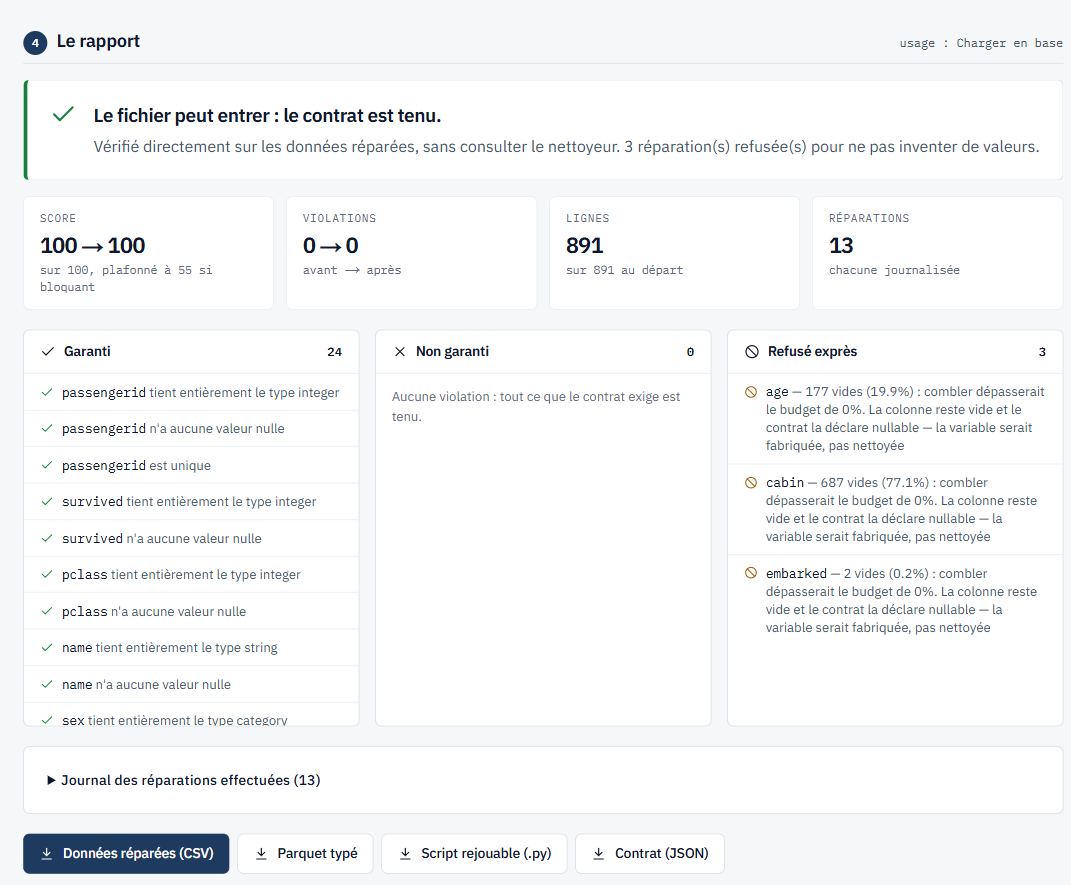
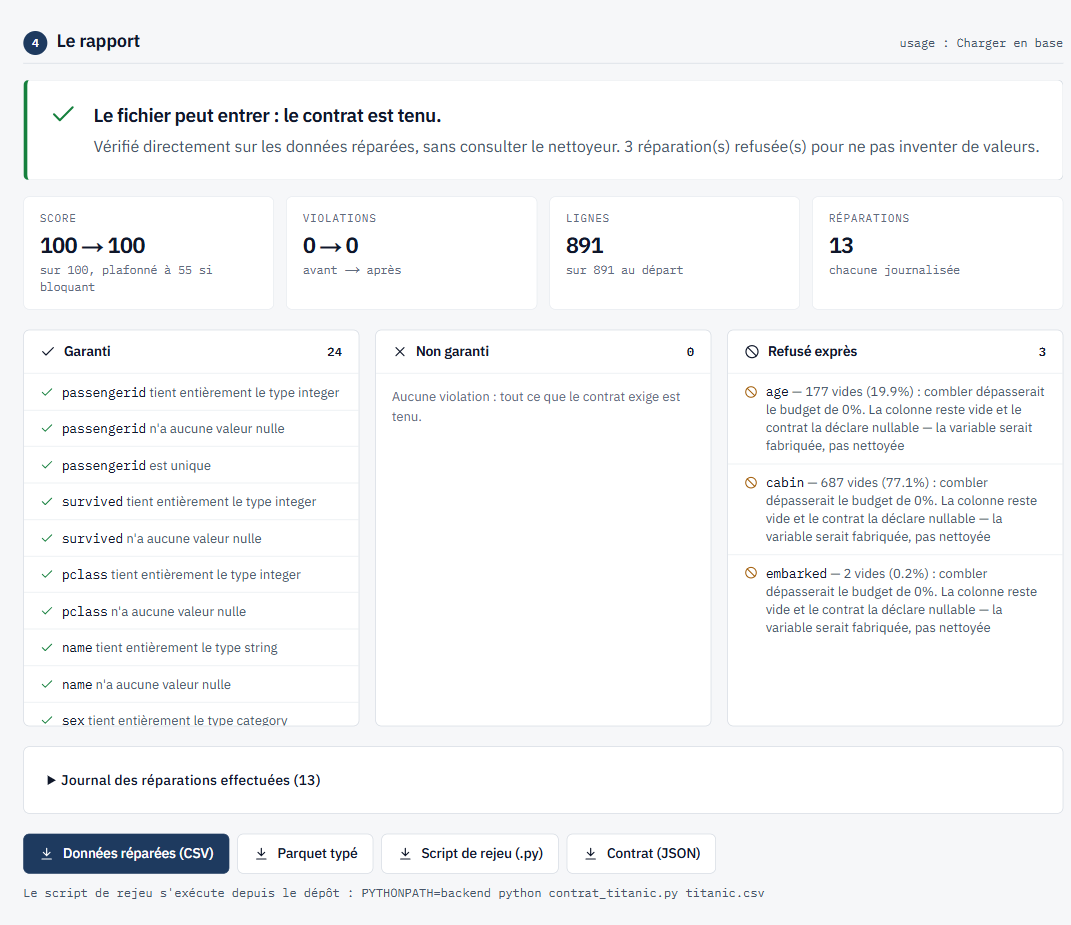
Le verificateur accusait la reparation de pertes qu'elle n'avait pas faites
Trouve en testant la nouvelle interface sur un fichier de ventes. Deux
lignes qui ne different que par la casse ou par un marqueur de vide
deviennent des doublons francs une fois reparees, et la reparation les
retire a bon droit ; le verificateur comptait les doublons sur le fichier
brut, y lisait des lignes perdues, puis des imputations (82 -> 61, contrat
non tenu, rien d'invente). Il compare desormais a une base construite
selon sa propre equivalence de lignes, toujours sans consulter le
nettoyeur. Contre-epreuves : une vraie perte et une vraie imputation
restent detectees.

Second defaut, d'honnetete : un usage qui exige une cle (base, jointure)
etait declare tenu sur un fichier sans aucune cle. Le contrat porte
maintenant cette exigence (cle_exigee) et la verification leve la
violation bloquante cle_absente. UCI Adult et US Cities ne sont donc plus
chargeables tels quels, ce qui est vrai.

Le script telecharge importe le depot expres ; sa notice et l'interface
disent comment le lancer, et un test l'execute reellement. 192 tests.

Claude-Session: https://claude.ai/code/session_01GMgjfJ58DWP2XDSQsajVtH

diff --git a/frontend/components/Gate.tsx b/frontend/components/Gate.tsx
@@ -262,12 +262,15 @@ function Rapport({ r, fichier }: { r: PassageContrat; fichier: File }) {
           <IconDownload size={16} /> Parquet typé
         </button>
         <button className="btn" onClick={() => telecharger(r.script, `contrat_${base}.py`, 'text/x-python')}>
-          <IconDownload size={16} /> Script rejouable (.py)
+          <IconDownload size={16} /> Script de rejeu (.py)
         </button>
         <button className="btn" onClick={() => telecharger(JSON.stringify(r.contrat, null, 2), `contrat_${base}.json`, 'application/json')}>
           <IconDownload size={16} /> Contrat (JSON)
         </button>
       </div>
+      <p className="meta" style={{ marginTop: '0.6rem' }}>
+        Le script de rejeu s&apos;exécute depuis le dépôt : <code>PYTHONPATH=backend python contrat_{base}.py {fichier.name}</code>
+      </p>
     </>
   );
 }

diff --git a/backend/tests/test_reparer.py b/backend/tests/test_reparer.py
@@ -486,3 +486,98 @@ def test_un_fichier_reel_a_colonnes_booleennes_passe():
         pytest.skip("fichier absent")
     r = asyncio.run(agent_contrat.run(f.read_bytes(), f.name, usage="modele"))
     assert r["contrat_tenu"], r["enonce"]["non_garanti"]
+
+
+# --------------------------------------------------------------------------- #
+# Le vérificateur accusait la réparation de pertes qu'elle n'avait pas faites
+# (trouvé le 15/11/2026 en testant la nouvelle interface sur un fichier de
+# ventes, usage « charger en base »). Deux lignes qui ne diffèrent que par la
+# casse (« rabat » / « Rabat ») ou par un marqueur de vide (« N/A » / vide)
+# deviennent des doublons francs une fois réparées, et la réparation les retire
+# à bon droit. Le vérificateur comptait les doublons sur le fichier BRUT, n'en
+# voyait pas autant, et concluait à des « lignes perdues » ; puis la baisse du
+# taux de vides due à ces retraits se lisait comme des « imputations ». Score
+# 82 -> 61, contrat « non tenu », sans qu'aucune valeur n'ait été inventée.
+# --------------------------------------------------------------------------- #
+
+def _ventes_quasi_doublons() -> bytes:
+    lignes = ["client,ville,montant"]
+    for i in range(40):
+        lignes.append(f"C{i:03d},Rabat,{100 + i}")
+    # quasi-doublons : même ligne, à la casse et au marqueur de vide près
+    lignes += ["C001,rabat,101", "C002, Rabat ,102", "C050,Fes,", "C050,Fes,N/A",
+               "C051,Fes,n/a", "C051,FES,"]
+    return ("\n".join(lignes) + "\n").encode()
+
+
+def test_quasi_doublons_ne_sont_ni_des_pertes_ni_des_imputations():
+    res = asyncio.run(agent_contrat.run(_ventes_quasi_doublons(), "v.csv", usage="base"))
+    codes = [v["code"] for v in res["rapport"]["violations"]]
+    assert "lignes_perdues" not in codes, res["enonce"]["non_garanti"]
+    assert "imputation_excessive" not in codes, res["enonce"]["non_garanti"]
+
+
+def test_une_vraie_perte_de_ligne_reste_detectee():
+    # Contre-épreuve : la correction ne doit pas rendre le contrôle aveugle.
+    origine = pd.DataFrame({"id": [1, 2, 3, 4], "v": ["a", "b", "c", "d"]})
+    propre = origine.iloc[:3].reset_index(drop=True)
+    ct = C.Contrat(colonnes=[C.ContratColonne("id", "integer"),
+                             C.ContratColonne("v", "string")],
+                   lignes_perdues_max=0.0)
+    r = C.verify(propre, ct, origine=origine)
+    assert any(v.code == "lignes_perdues" for v in r.violations)
+
+
+def test_une_vraie_imputation_reste_detectee():
+    origine = pd.DataFrame({"id": [1, 2, 3, 4], "v": ["a", None, None, "d"]})
+    propre = origine.fillna({"v": "a"})
+    ct = C.Contrat(colonnes=[C.ContratColonne("id", "integer"),
+                             C.ContratColonne("v", "string", taux_nul_max=1.0)],
+                   imputation_max=0.0)
+    r = C.verify(propre, ct, origine=origine)
+    assert any(v.code == "imputation_excessive" for v in r.violations)
+
+
+# Un usage qui exige une clé (charger en base, joindre) ne peut pas être
+# déclaré « tenu » sur un fichier qui n'en a aucune : l'inférence l'écrivait
+# dans ses arbitrages, mais le verdict disait « le fichier peut entrer ».
+
+def test_usage_qui_exige_une_cle_sans_cle_nest_pas_tenu():
+    res = asyncio.run(agent_contrat.run(_ventes_quasi_doublons(), "v.csv", usage="base"))
+    assert res["contrat"]["cle_primaire"] == []
+    assert res["contrat"]["cle_exigee"] is True
+    assert res["contrat_tenu"] is False
+    codes = [v["code"] for v in res["rapport"]["violations"]]
+    assert codes == ["cle_absente"]
+    assert res["score_apres"] <= C.PLAFOND_BLOQUANT
+
+
+def test_usage_sans_exigence_de_cle_reste_tenu_sans_cle():
+    res = asyncio.run(agent_contrat.run(_ventes_quasi_doublons(), "v.csv", usage="modele"))
+    assert res["contrat"]["cle_exigee"] is False
+    assert res["contrat_tenu"] is True
+
+
+def test_un_contrat_ancien_sans_le_champ_se_relit():
+    # Un contrat JSON écrit avant l'ajout du champ doit rester lisible.
+    d = C.Contrat(colonnes=[C.ContratColonne("id", "integer")]).to_dict()
+    d.pop("cle_exigee")
+    assert C.Contrat.from_dict(d).cle_exigee is False
+
+
+def test_le_script_genere_rejoue_la_passe(tmp_path):
+    # Le script téléchargé depuis l'interface doit réellement tourner : on
+    # l'exécute, avec le dépôt dans le PYTHONPATH comme l'indique sa notice.
+    import os, subprocess, sys
+    from pathlib import Path
+    contenu = _ventes_quasi_doublons()
+    res = asyncio.run(agent_contrat.run(contenu, "v.csv", usage="modele"))
+    assert "PYTHONPATH=backend" in res["script"]
+    (tmp_path / "v.csv").write_bytes(contenu)
+    (tmp_path / "rejeu.py").write_text(res["script"], encoding="utf-8")
+    env = dict(os.environ, PYTHONPATH=str(Path(__file__).resolve().parents[1]))
+    sortie = subprocess.run([sys.executable, "rejeu.py", "v.csv"], cwd=tmp_path, env=env,
+                            capture_output=True, text=True, timeout=120)
+    assert sortie.returncode == 0, sortie.stderr[-800:]
+    assert "contrat tenu : True" in sortie.stdout
+    assert (tmp_path / "propre.parquet").exists()

diff --git a/backend/app/services/contract.py b/backend/app/services/contract.py
@@ -113,12 +113,13 @@ FORMES: Dict[str, str] = {
 #: qui rend impossible le 100/100 observé sur des données inutilisables.
 BLOQUANTES = frozenset({
     "colonne_absente", "type_inconvertible", "cle_non_unique",
-    "marqueur_vide_en_valeur", "colonne_supprimee",
+    "marqueur_vide_en_valeur", "colonne_supprimee", "cle_absente",
 })
 PLAFOND_BLOQUANT = 55
 
 POIDS = {
     "colonne_absente": 25, "type_inconvertible": 20, "cle_non_unique": 20,
+    "cle_absente": 20,
     "marqueur_vide_en_valeur": 15, "colonne_supprimee": 20,
     "doublons_lignes": 12, "taux_nul_depasse": 10, "imputation_excessive": 12,
     "masse_ponctuelle": 12, "lignes_perdues": 15, "hors_domaine": 8,
@@ -197,6 +198,11 @@ class Contrat:
     #: Colonnes hors contrat : tolérées (on ne connaît pas tout) mais listées.
     colonnes_inattendues_interdites: bool = False
     usage: str = ""
+    #: L'usage exige-t-il une clé ? Porté par le contrat lui-même, pour que la
+    #: vérification le contrôle sans consulter l'inférence (la dépendance ne va
+    #: que dans un sens). Sans lui, un fichier sans aucune clé était déclaré
+    #: « tenu » pour un chargement en base.
+    cle_exigee: bool = False
 
     def par_nom(self) -> Dict[str, ContratColonne]:
         return {c.nom: c for c in self.colonnes}
@@ -558,6 +564,13 @@ def verify(df: pd.DataFrame, contrat: Contrat,
                     "colonne_inattendue", nom, f"« {nom} » n'est pas au contrat"))
 
     # 8. Clé primaire, éventuellement composite
+    if contrat.cle_exigee and not contrat.cle_primaire:
+        r.violations.append(Violation(
+            "cle_absente", None,
+            "l'usage exige une clé, et aucune colonne n'identifie une ligne de "
+            "façon unique : un chargement incrémental ou une jointure "
+            "dupliquerait des lignes sans le signaler — désignez une clé, "
+            "éventuellement composite"))
     if contrat.cle_primaire:
         manquantes = [c for c in contrat.cle_primaire if c not in df.columns]
         if manquantes:
@@ -599,6 +612,33 @@ def verify(df: pd.DataFrame, contrat: Contrat,
     return r
 
 
+def _base_equivalente(origine: pd.DataFrame) -> pd.DataFrame:
+    """L'entrée, un exemplaire par ligne au sens du vérificateur.
+
+    Deux lignes sont équivalentes si elles ne diffèrent que par des espaces en
+    bordure, la casse, ou la façon d'écrire « vide » (marqueur ou cellule
+    vide). Les marqueurs deviennent de vrais vides dans la base rendue, pour
+    que les taux de vides comparés avant/après mesurent la même chose.
+
+    La clé de comparaison est en minuscules, mais la base garde les valeurs
+    d'origine : seule l'identité des lignes change, pas leur contenu.
+    """
+    vue = origine.copy()
+    cle = pd.DataFrame(index=origine.index)
+    for nom in origine.columns:
+        s = origine[nom]
+        if (pd.api.types.is_numeric_dtype(s) or pd.api.types.is_bool_dtype(s)
+                or pd.api.types.is_datetime64_any_dtype(s)):
+            cle[nom] = s
+            continue
+        texte = s.where(s.isna(), s.astype(str))
+        vide = texte.notna() & est_vide(texte.fillna(""))
+        vue[nom] = s.mask(vide)
+        cle[nom] = texte.str.strip().str.lower().mask(vide)
+    garder = ~cle.duplicated()
+    return vue[garder].reset_index(drop=True)
+
+
 def _perte_information(df: pd.DataFrame, origine: pd.DataFrame,
                        contrat: Contrat, r: Rapport) -> None:
     """Ce que le nettoyage a coûté — le contrôle que l'ancien score n'avait pas.
@@ -626,7 +666,16 @@ def _perte_information(df: pd.DataFrame, origine: pd.DataFrame,
       s'arme donc que là où des vides ont effectivement été comblés.
     """
     n_av, n_ap = len(origine), len(df)
-    francs = int(origine.duplicated().sum())
+    # Troisième piège, trouvé le 15/11/2026 : compter les doublons sur le
+    # fichier BRUT. « rabat » et « Rabat », « N/A » et une cellule vide font
+    # deux lignes différentes à l'octet près et une seule une fois réparées ;
+    # la réparation les fusionne à bon droit, et le contrôle comptait ces
+    # retraits comme des pertes, puis la baisse du taux de vides qui en
+    # résulte comme des imputations. On compare donc à la base que le
+    # vérificateur construit LUI-MÊME selon sa propre équivalence de lignes
+    # (espaces, casse, marqueurs de vide) — sans rien demander au nettoyeur.
+    base = _base_equivalente(origine)
+    francs = n_av - len(base)
     perdues = max(0, n_av - francs - n_ap)
     if n_av and perdues / n_av > contrat.lignes_perdues_max + 1e-9:
         r.violations.append(Violation(
@@ -651,7 +700,7 @@ def _perte_information(df: pd.DataFrame, origine: pd.DataFrame,
                   else contrat.imputation_max)
 
         # Taux et non comptes : voir le premier piège du docstring.
-        comble = max(0.0, float(origine[nom].isna().mean())
+        comble = max(0.0, float(base[nom].isna().mean())
                      - float(df[nom].isna().mean()))
         if comble > budget + 1e-9:
             r.violations.append(Violation(

diff --git a/backend/app/services/agent_contrat.py b/backend/app/services/agent_contrat.py
@@ -81,6 +81,12 @@ def _script(contrat: contract.Contrat, journal: reparer.Journal,
         f"Source : {filename}",
         f"Usage déclaré : {contrat.usage or 'non précisé'}",
         "",
+        "Exécution : ce script réutilise les réparations et la vérification du",
+        "dépôt intelligent_data_cleaner au lieu de les recopier (une copie",
+        "dériverait à la première correction). Depuis la racine du dépôt :",
+        "    PYTHONPATH=backend python ce_script.py fichier.csv",
+        "Il écrit propre.parquet et affiche si le contrat est tenu.",
+        "",
         "Ce que la passe a refusé de faire :",
     ]
     lignes += [f"  - {g.colonne or 'global'} : {g.detail}"

diff --git a/backend/app/services/contract_infer.py b/backend/app/services/contract_infer.py
@@ -657,6 +657,7 @@ def inferer(analysis: Dict[str, Any], df: pd.DataFrame,
         lignes_perdues_max=float(reglage["lignes_perdues_max"]),
         imputation_max=budget,
         usage=usage,
+        cle_exigee=bool(reglage["exige_cle"]),
     )
 
     if cands:

diff --git a/CLAUDE.md b/CLAUDE.md
@@ -30,7 +30,7 @@ OPENAI_API_KEY=<key> docker-compose up --build
 ```bash
 cd backend
 pip install pandas numpy openpyxl fastapi "pydantic>=2" pydantic-settings python-multipart httpx openai pytest
-pytest tests/ -q   # 185 tests : advisor, quality, agent_cleaner, contract, reparer, corpus, preparation, forme, excel, bout-en-bout
+pytest tests/ -q   # 192 tests (1 skipped) : advisor, quality, agent_cleaner, contract, reparer, corpus, preparation, forme, excel, bout-en-bout
 ```
 CI : `.github/workflows/tests.yml` (push/PR). La boucle agentique tourne 100 % offline (conseiller fail-open → rule-based).
 
@@ -114,6 +114,26 @@ covered by tests:
   boolean type **only if the column holds it entirely**, and falls back to
   `string` with examples otherwise. *Mixed* does not mean *86% numeric*; it
   means the column holds codes, and a code is not a quantity.
+
+### Two verifier defects found through the UI (15/11/2026)
+
+- **Near-duplicates read as losses.** `_perte_information` counted franc duplicates
+  on the RAW file. Rows differing only by case (`rabat`/`Rabat`), edge spaces or a
+  void marker (`N/A`/empty) become identical once repaired and are rightly dropped;
+  the verifier called them "lost rows", then read the resulting fall of the void
+  rate as "imputations" (82 -> 61, contract "not held", nothing invented). It now
+  compares against `_base_equivalente(origine)`, built with the **verifier's own**
+  row equivalence (strip, casefold, markers -> void) — still without consulting
+  the cleaner. Counter-tests keep a real row loss and a real imputation detected.
+- **A key-requiring usage was "held" with no key.** `Contrat.cle_exigee` now carries
+  the usage's key requirement (set by `contract_infer`, default False so older
+  contract JSON still loads), and `verify` raises the blocking `cle_absente`. On the
+  public corpus, UCI Adult and US Cities are now *not* loadable as-is (no unique
+  column), which is the truth.
+
+The downloadable contract script **imports** `app.services` on purpose (a copy
+would drift); its header says how to run it (`PYTHONPATH=backend`), and
+`test_le_script_genere_rejoue_la_passe` executes it for real.
 
 ### Shape: what a value must look like — `contract.FORMES`
 

diff --git a/README.md b/README.md
@@ -14,7 +14,7 @@ la liste de ce qu'elle n'a pas pu faire.
 ![Python](https://img.shields.io/badge/Python-3.12+-blue.svg)
 ![FastAPI](https://img.shields.io/badge/FastAPI-0.109+-green.svg)
 ![Next.js](https://img.shields.io/badge/Next.js-16+-black.svg)
-![tests](https://img.shields.io/badge/tests-173-brightgreen.svg)
+![tests](https://img.shields.io/badge/tests-192-brightgreen.svg)
 
 ---
 
@@ -258,7 +258,7 @@ uvicorn app.main:app --reload          # http://localhost:8000/docs
 # Frontend
 cd frontend && npm install && npm run dev   # http://localhost:3000
 
-# Tests — 173, sans réseau et sans clé
+# Tests — 192 (dont 1 sauté), sans réseau et sans clé
 cd backend && python -m pytest tests/ -q
 ```
 
